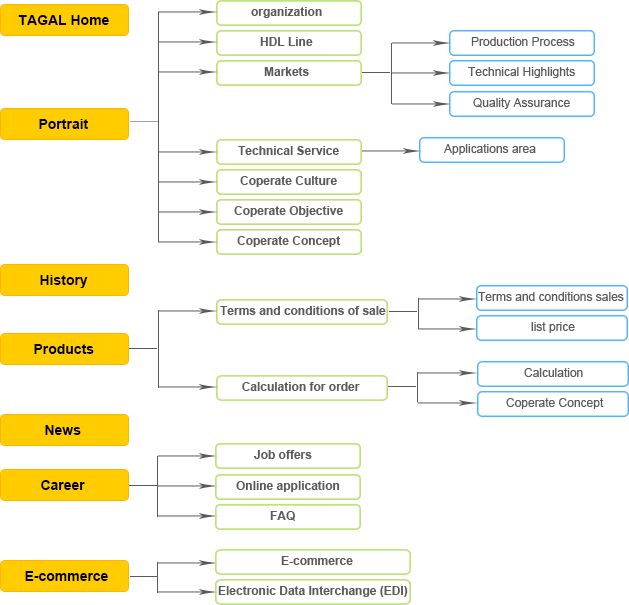
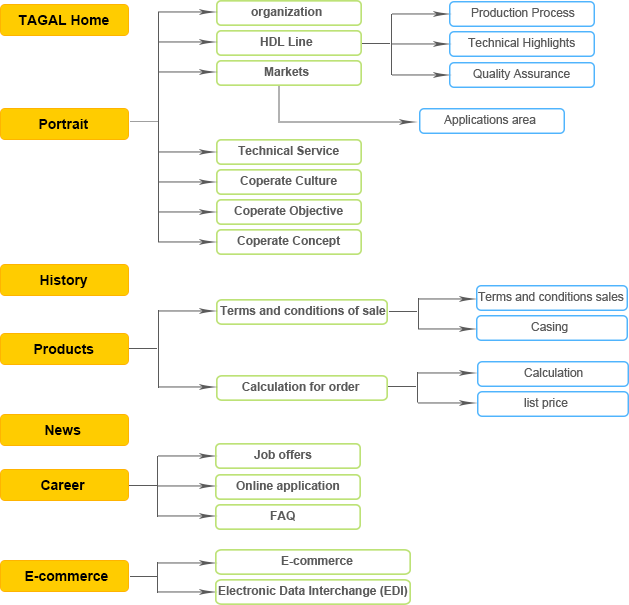
site map

Changed region(s): [[0.4229, 0.0, 0.9666, 0.2678], [0.8156, 0.6545, 0.9666, 0.6843], [0.8458, 0.5355, 0.9062, 0.5653]]

diff --git a/site_map.html b/site_map.html
@@ -112,18 +112,20 @@
 	        	     		Sitemap
 	        	     	</h1>
 	        	     	<div>
-	        	     		<img src="./images/site_map_en.png" alt="site map" usemap="#Map">
+	        	     		<!--<img src="./images/site_map_en.png" alt="site map" usemap="#Map">-->
+	        	     		<img src="./images/site_map_cn.png" alt="site map" usemap="#Map">
                               <map name="Map" id="Map">
 			                    <area shape="rect" coords="0,4,130,38" href="#tagal home" target="_blank" />
 			                    <area shape="rect" coords="0,108,130,140" href="#Portrait" target="_blank" />
 				                    <area shape="rect" coords="215,0,362,25" href="#organization" target="_blank" />
 									<area shape="rect" coords="215,30,362,55" href="#HDL Line" target="_blank" />
+										<area shape="rect" coords="450,2,597,29" href="#Production Process" target="_blank" />
+										<area shape="rect" coords="450,32,597,59" href="#Technical Highlights" target="_blank" />
+										<area shape="rect" coords="450,62,597,89" href="#Quality Assurance" target="_blank" />
 									<area shape="rect" coords="215,60,362,85" href="#Markets" target="_blank" />
-										<area shape="rect" coords="450,30,597,57" href="#Production Process" target="_blank" />
-										<area shape="rect" coords="450,60,597,87" href="#Technical Highlights" target="_blank" />
-										<area shape="rect" coords="450,90,597,117" href="#Quality Assurance" target="_blank" />
+										<area shape="rect" coords="420,109,564,134" href="#Applications area " target="_blank" />
 									<area shape="rect" coords="215,138,362,163" href="#Technical Service" target="_blank" />
-										<area shape="rect" coords="419,137,565,163" href="#Applications area " target="_blank" />
+										
 									<area shape="rect" coords="215,168,362,193" href="#Coperate Culture" target="_blank" />
 									<area shape="rect" coords="215,198,362,223" href="#Coperate Objective" target="_blank" />
 									<area shape="rect" coords="215,228,362,253" href="#Coperate Concept" target="_blank" />
@@ -131,10 +133,10 @@
 								<area shape="rect" coords="0,333,130,367" href="#Products" target="_blank" />
 									<area shape="rect" coords="215,300,387,325" href="#Terms and conditions of sale" target="_blank" />
 										<area shape="rect" coords="477,285,628,310" href="#Terms and conditions sales" target="_blank" />
-										<area shape="rect" coords="477,316,628,341" href="#list price" target="_blank" />
+										<area shape="rect" coords="477,316,628,341" href="#Casing" target="_blank" />
 									<area shape="rect" coords="215,375,387,400" href="#Calculation for order" target="_blank" />
 										<area shape="rect" coords="477,362,628,387" href="#Calculation" target="_blank" />
-										<area shape="rect" coords="477,392,628,417" href="#Coperate Concept" target="_blank" />
+										<area shape="rect" coords="477,392,628,417" href="#list price" target="_blank" />
 								<area shape="rect" coords="0,414,130,448" href="#News" target="_blank" />
 								<area shape="rect" coords="0,469,130,502" href="#Career" target="_blank" />
 									<area shape="rect" coords="215,444,362,469" href="#Job offers" target="_blank" />
